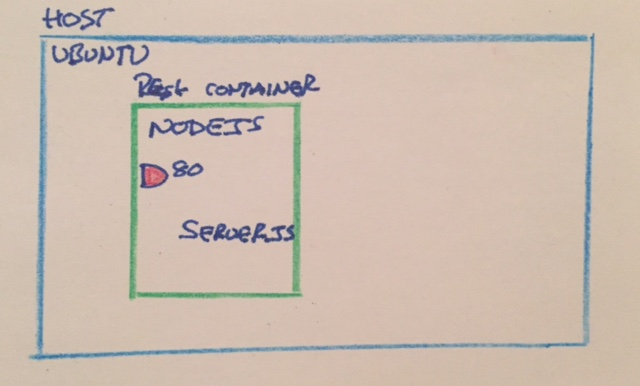
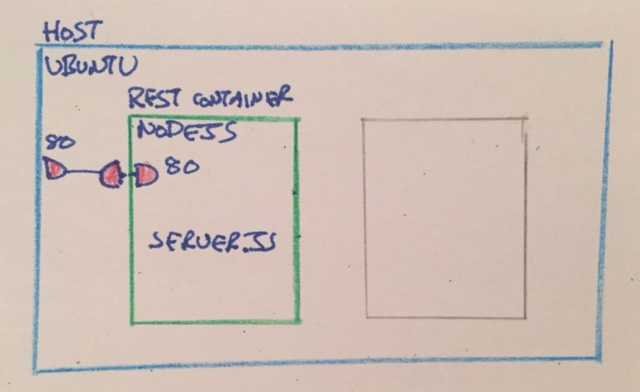
Include more interim example diagrams

diff --git a/slides.md b/slides.md
@@ -4,13 +4,6 @@
 
 ---
 
-## Content
-+ Docker Introduction
-+ Docker Example
-+ Orchestration
-
----
-
 ## Docker: the product
 + Docker: Build, Ship, Run
 + Docker is an open platform for building, shipping and running distributed applications. It gives programmers, development teams and operations engineers the common toolbox they need to take advantage of the distributed and networked nature of modern applications. (docker.com)
@@ -172,7 +165,7 @@ curl: (7) Failed to connect to localhost port 3000: Connection refused
 + nodejs process within the rest container is listening on port 80
 + No access outside of the container to that port
 
-![Design](images/rest.jpg)
+![Design](images/rest-unconnected.jpg)
 
 ---
 
@@ -193,6 +186,15 @@ Example app listening at http://:::80
 $ curl localhost/api/countries
 ["ca","us"]
 ```
+---
+
+## Rest accessible from host
+
+![Complete Application](images/rest.jpg)
+
+---
+
+## Improving the definition of the rest container
 
 ---
 
@@ -271,6 +273,12 @@ Example app listening at http://:::80
 $ curl localhost/api/countries
 ["ca","us"]
 ```
+
+---
+
+## Creating the DB container
+
+![Complete Application](images/db-start.jpg)
 
 ---
 
@@ -363,6 +371,12 @@ journal  local.0  local.ns  mongod.lock  storage.bson
 
 ## Linking the DB and Rest containers
 
+![Complete Application](images/db-unconnected.jpg)
+
+---
+
+## Linking the DB and Rest containers
+
 + We now need to link the DB and Rest containers
 + As we saw before containers are isolated from the host and each other by default
 + Rather than linking the DB with the host, allowing any process access to the mongo service, we will instead link the Rest container to the DB container directly
@@ -374,8 +388,6 @@ $ docker run -it --rm --name rest \
     --link db:db \
     my-rest
 ```
-
-
 
 ---
 
@@ -392,6 +404,15 @@ MongoClient.connect(url, function(err, db) {
 }
 ```
 + Rather than relying directly on the `db` domain name from the --link the full URL can be passed into the container as an environment variable
+---
+
+## Example Functioning
+
++ We now have the rest container accessible
++ The rest container using the db container
+
+![Complete Application](images/overall.jpg)
+
 ---
 
 ## Orchestration
@@ -438,6 +459,7 @@ db:
 
 ```
 $ docker-compose up
+
 Creating rest_db_1...
 Creating rest_rest_1...
 db_1   | MongoDB starting : pid=1 port=27017 dbpath=/data/db 64-bit host=f80942718a9f
@@ -445,6 +467,8 @@ db_1   | waiting for connections on port 27017
 rest_1 | > node server.js
 rest_1 | Example app listening at http://:::80
 ```
+
++ docker-compose now allows us to start/stop/restart/access logs for all the containers as if they were a single unit
 ---
 
 ## Extending the host
@@ -502,13 +526,14 @@ rest_1 | Example app listening at http://:::80
 
 + Docker Images are run to produce runtime Containers
 + Images can be private or downloaded from the public docker hub
++ Images defined by Dockerfile
 + Container runs one process
 + Containers are isolated by default
 + Container network access from host or other containers can be configured
 + Container disk storage is ephemeral and is lost when the container is removed
 + Host file system can be linked to container for permanent storage
 + Application decomposed into many containers
-+ Docker compose can run and link multiple containers
++ Docker compose can run and link multiple containers (docker-compose.yml)
 
 ---
 
@@ -533,6 +558,14 @@ rest_1 | Example app listening at http://:::80
 
 + http://docker.com
 ---
+
+## Content
++ Docker Introduction
++ Docker Example
++ Orchestration
+
+---
+
 
 ## Why/Motivation
 + Expectations for deployed systems have changed - trickle down from large websites
